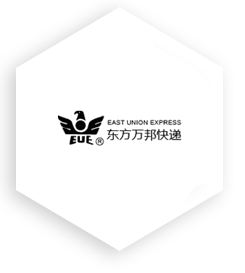
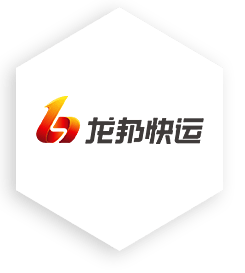
Change partner and fix some BUGs.

Changed region(s): [[0.1429, 0.3516, 0.8286, 0.5568]]

diff --git a/geoforce-portal/src/main/webapp/res/js/distribute/demo.js b/geoforce-portal/src/main/webapp/res/js/distribute/demo.js
@@ -211,7 +211,7 @@ var reset = function() {
 	
 	map.setZoomAndCenter(15, [104.065735,30.659462]);
 	
-	$("#address").val("");;
+	$("#address").val("");
 	
 	$("#result").text("无");
 	$("#result").removeClass("result");
@@ -251,8 +251,9 @@ $(function() {
 	$("#address").bind("keypress",function(event) {
 		if(event.keyCode == "13") {
 			singleDistribute($("#address").val());
+			return false;
 		}
-		return false;
+		return true;
 	});
 	
 	$("#singleDistribute").click(function() {

diff --git a/geoforce-portal/src/main/webapp/res/js/distribute/free.js b/geoforce-portal/src/main/webapp/res/js/distribute/free.js
@@ -305,8 +305,9 @@ $(function() {
 	$("#address").bind("keypress",function(event) {
 		if(event.keyCode == "13") {
 			singleDistribute($("#address").val());
+			return false;
 		}
-		return false;
+		return true;
 	});
 	
 	$("#singleDistribute").click(function() {
